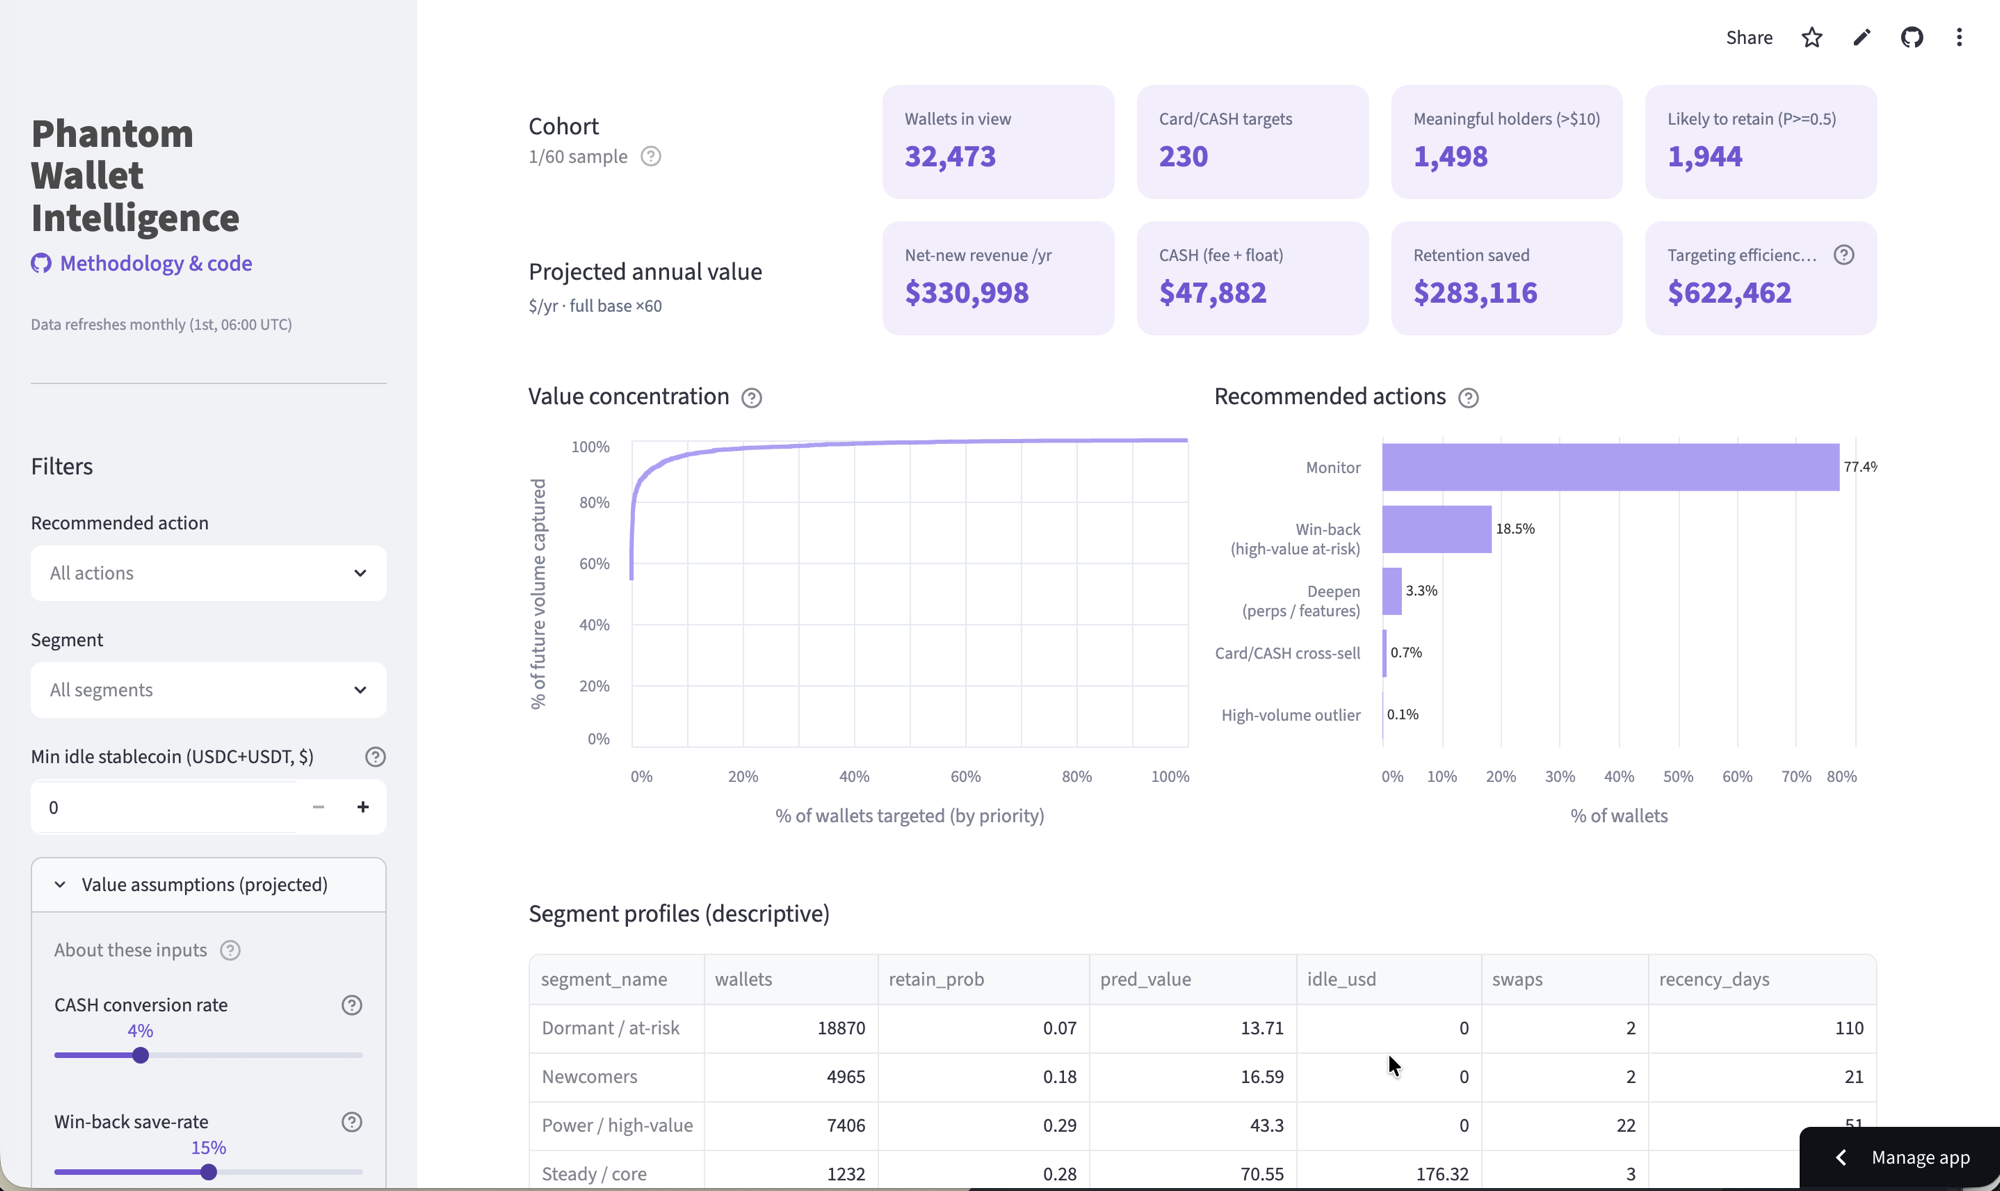
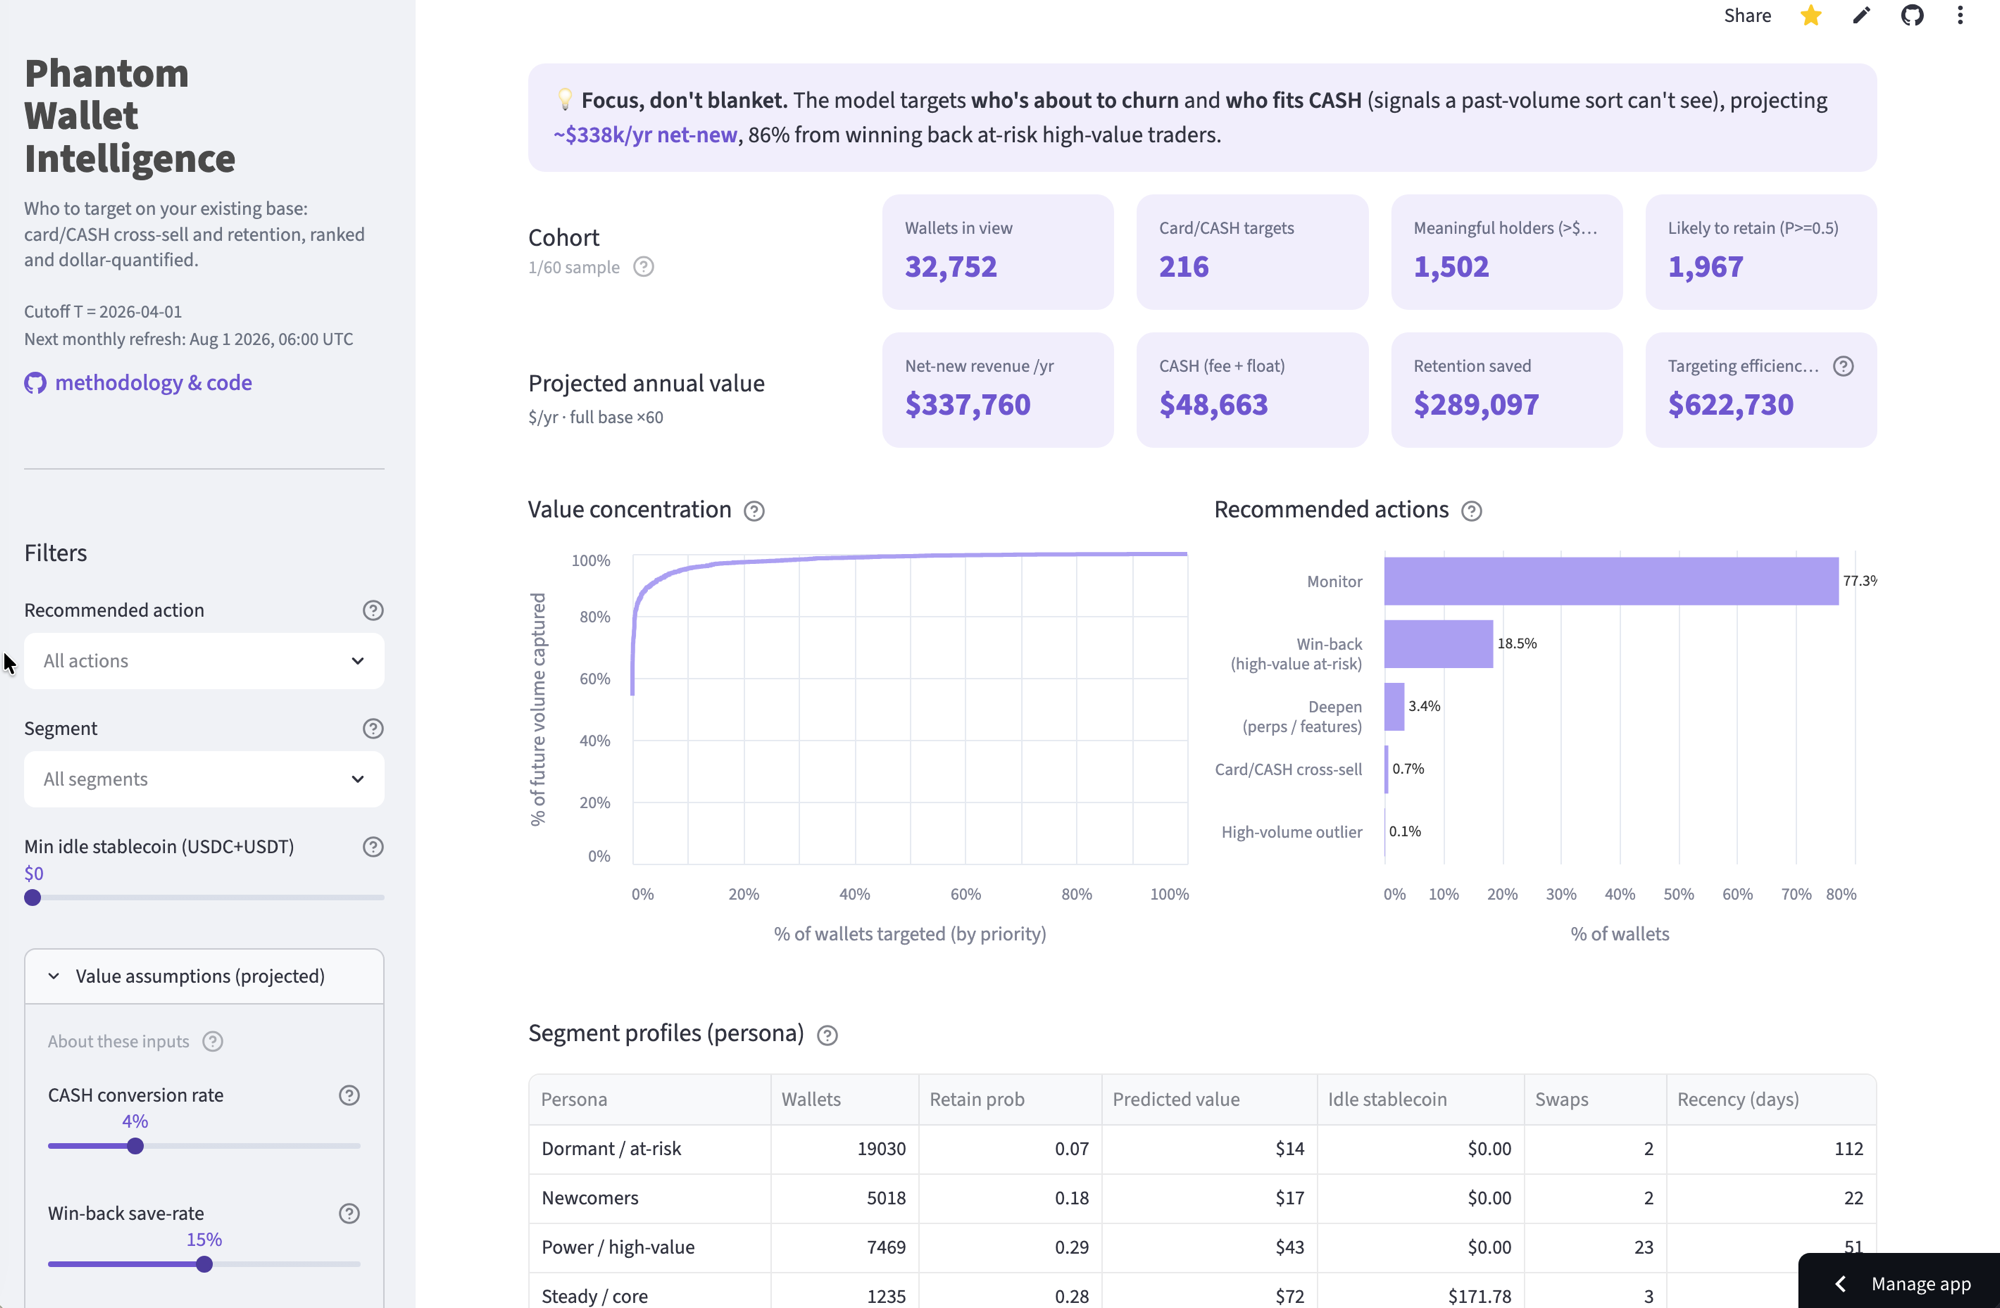
various fixes

diff --git a/app.py b/app.py
@@ -138,7 +138,7 @@ st.markdown(
     "font-size:1.02rem;line-height:1.5;'>"
     f"💡 <b>Focus, don't blanket.</b> The model targets <b>who's about to churn</b> and "
     f"<b>who fits CASH</b> (signals a past-volume sort can't see), projecting "
-    f"<b style='color:#6E56CF'>~${net_new/1e3:,.0f}k/yr net-new</b>, "
+    f"<b style='color:#6E56CF'>~${net_new/1e3:,.0f}k/yr incremental revenue</b>, "
     f"{retn_pct:.0%} from winning back at-risk high-value traders."
     "</div>", unsafe_allow_html=True)
 
@@ -156,11 +156,11 @@ c4.metric("Likely to retain (P>=0.5)", f"{(view.retain_prob >= 0.5).sum():,}")
 # ---- Projected annual value row: label on the left, cards on the right (figures computed above) ----
 v0, v1, v2, v3, v4 = st.columns([1.4, 1, 1, 1, 1], vertical_alignment="center")
 v0.markdown(f"<div style='font-size:1.1rem;line-height:1.2'>Projected annual value</div><span style='color:#6b7280;font-size:0.8rem;'>$/yr · full base ×{N}</span>", unsafe_allow_html=True)
-v1.metric("Net-new revenue /yr", f"${cash_new + retn_saved:,.0f}")
+v1.metric("Incremental revenue /yr", f"${cash_new + retn_saved:,.0f}")
 v2.metric("CASH (fee + float)", f"${cash_new:,.0f}")
 v3.metric("Retention saved", f"${retn_saved:,.0f}")
 v4.metric("Targeting efficiency /yr", f"${prio:,.0f}",
-          help="Value reached in the top decile vs. a plain past-volume sort. A multiplier on campaign spend, not additive net-new. Projected under the sidebar assumptions.")
+          help="Value reached in the top decile vs. a plain past-volume sort. A multiplier on campaign spend, not incremental revenue. Projected under the sidebar assumptions.")
 
 # ---- Value concentration + Recommended actions, side by side ----
 left, right = st.columns(2)

diff --git a/value.py b/value.py
@@ -74,14 +74,14 @@ for name, sr in v.SAVE_RATE.items():
     tag = " (base)" if name == "base" else ""
     print(f"   save-rate {name + tag:<10} ({sr:.0%}): {money(v.annualize(rv['saved']))}/yr saved")
 
-# base-case summary -- keep NET-NEW revenue separate from targeting EFFICIENCY (not additive)
+# base-case summary -- keep INCREMENTAL revenue separate from targeting EFFICIENCY (not additive)
 cv_b = v.cash_value(idle_sample, v.CONVERSION["base"])
 rv_b = v.retention_value(at_risk_fee_sample, v.SAVE_RATE["base"])
 cash_new = cv_b["one_time_fee"] + cv_b["annual_float"]
 retn_new = v.annualize(rv_b["saved"])
 print(f"\nBASE-CASE (conversion {v.CONVERSION['base']:.0%}, save-rate {v.SAVE_RATE['base']:.0%}, float {v.FLOAT_RATE_YR:.2%}/yr, fee {v.SWAP_FEE:.2%}, lift {LIFT:.0%}):")
-print(f"  NET-NEW revenue/yr  = CASH {money(cash_new)} + retention saved {money(retn_new)} = {money(cash_new + retn_new)}")
+print(f"  INCREMENTAL revenue/yr = CASH {money(cash_new)} + retention saved {money(retn_new)} = {money(cash_new + retn_new)}")
 print(f"  TARGETING EFFICIENCY = {money(v.annualize(prio_q))}/yr of existing value reachable in the top 10% vs a")
-print(f"                         volume-sort (a multiplier on campaign spend, NOT additive net-new revenue)")
+print(f"                         volume-sort (a multiplier on campaign spend, NOT incremental revenue)")
 print(f"  NOTE: CASH is a CONSERVATIVE FLOOR (idle stablecoin only; portfolio-wide addressable is larger -- v2).")
 print("  All assumptions tunable; PROJECTED -- causal lift requires a treatment/holdout test.")

diff --git a/README.md b/README.md
@@ -6,7 +6,7 @@ Rank a crypto wallet's existing users for **card/CASH cross-sell and retention**
 
 [![Phantom Wallet Intelligence dashboard](assets/dashboard.png)](https://phantom-wallet-intelligence.streamlit.app)
 
-*Figures and windows are from the current monthly snapshot (cutoff `T` = 2026-04-01); the live dashboard recomputes them on each refresh. The embedded screenshot is illustrative, from an earlier run.*
+*Figures and windows are from the current monthly snapshot (cutoff `T` = 2026-04-01); the live dashboard recomputes them on each refresh.*
 
 **Takeaway:** a **retention** model and a **value** model combine into a priority score that beats a naive past-volume sort on the consumer base (**significant at the top quintile**; the top-decile lift is larger but window-dependent), projecting to a tunable **~$0.3M/yr** case. Each model carries its own metric: retention AUC 0.80, priority-score lift, value R², segmentation silhouette. Full results below, *after* the methodology.
 
@@ -91,9 +91,9 @@ For each wallet the models produce three numbers: **retention probability**, **p
 - **Handle 1:1**: high-volume outliers → **33 → ~2,000 (0.1%)**. 
 	- Institutional / account-management, not a mass campaign.
 - **Monitor**: everyone else → **~1.52M (77%)**. No spend.
-- **Prioritization** (cross-cutting): targeting the top decile by priority score reaches **≈ $0.6M/yr** more of next-quarter volume than a past-volume sort, a campaign-efficiency gain, not additive net-new.
+- **Prioritization** (cross-cutting): targeting the top decile by priority score reaches **≈ $0.6M/yr** more of next-quarter volume than a past-volume sort, a campaign-efficiency gain, not incremental revenue.
 
-**Base-case net-new ≈ $0.3M/yr** (CASH + retention saved), plus the ~$0.6M efficiency. Assumptions: conversion 4%, save-rate 15%, net float 3.25%, fee 0.85%, lift 7%. Exact figures print from `value.py`.
+**Base-case incremental revenue ≈ $0.3M/yr** (CASH + retention saved), plus the ~$0.6M efficiency. Assumptions: conversion 4%, save-rate 15%, net float 3.25%, fee 0.85%, lift 7%. Exact figures print from `value.py`.
 
 Conversion, save-rate, and float can't be read from on-chain data, so the dashboard exposes them as **sliders**: a PM enters their own estimates and the projection re-runs (a what-if / sensitivity check). The sliders move the *dollar figures* only; the recommended wallets are fixed by the models.
 
